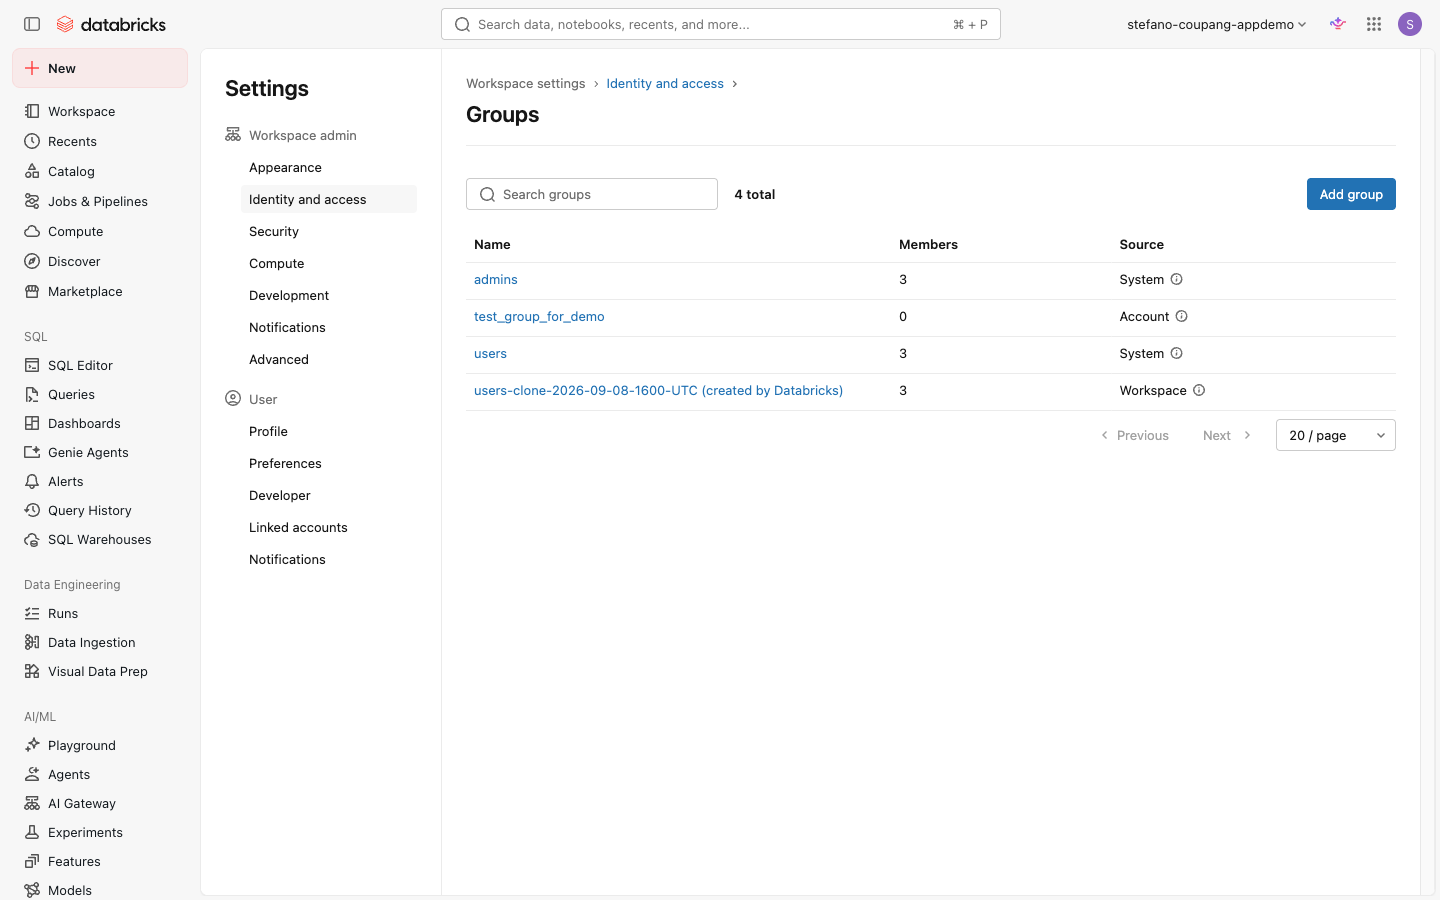
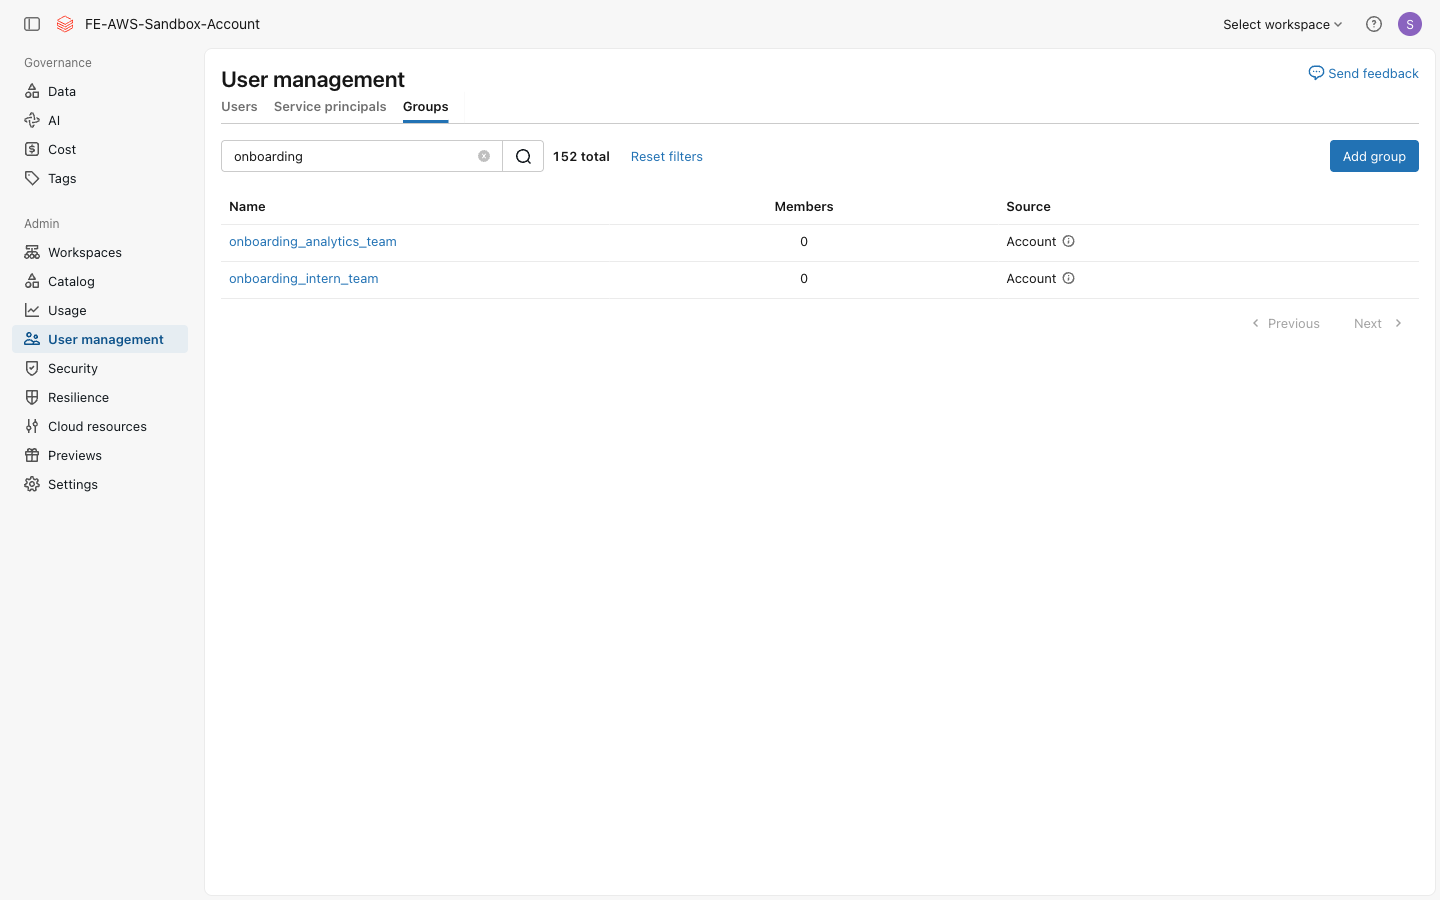
04. 그룹 관리: 1단계 스크린샷을 워크스페이스 콘솔 → 계정 콘솔로 교체
- 기존 01-account-console-groups-tab.png 이 실제로는 워크스페이스 콘솔
  (Workspace settings > Identity and access > Groups) 화면이라, 계정 콘솔에서
  그룹을 만들라는 1단계 내용과 모순되었음 (사용자 제보)
- 계정 콘솔(accounts.cloud.databricks.com)의 User management > Groups 탭을
  새로 캡처해 교체. 공개 레포 PII 노출을 피하려 이 실습이 만드는
  onboarding_analytics_team·onboarding_intern_team 만 보이도록 필터
- 캡션도 계정 콘솔/필터 맥락 및 워크스페이스 콘솔과의 구분점으로 갱신

diff --git a/docs/04-groups.md b/docs/04-groups.md
@@ -88,8 +88,8 @@
 2. 왼쪽 사이드바에서 **User Management** 아이콘(사람 모양)을 클릭합니다.
 3. 화면 상단의 탭 중 **Groups** 를 클릭합니다.
 
-   ![계정 콘솔 Groups 탭](../assets/screenshots/04-groups/01-account-console-groups-tab.png)
-   *그룹 목록 화면 — admins·users 등 계정에 정의된 그룹과 각 그룹의 멤버 수·소스(System/Account), 우측 상단 "Add group" 버튼.*
+   ![계정 콘솔 User management > Groups 탭](../assets/screenshots/04-groups/01-account-console-groups-tab.png)
+   *계정 콘솔(`accounts.cloud.databricks.com`)의 **User management → Groups** 탭 — 계정 레벨 그룹 목록입니다. (여기서는 이 실습에서 만드는 `onboarding_analytics_team`·`onboarding_intern_team`만 보이도록 검색창에 "onboarding"으로 필터했습니다.) 각 그룹의 멤버 수와 소스(Account), 우측 상단 "Add group" 버튼을 확인하세요. 좌측 내비게이션이 Governance·Admin(Workspaces·User management 등)으로 구성된 점이 워크스페이스 콘솔이 아닌 **계정 콘솔**임을 보여줍니다.*
 
 4. 오른쪽 상단의 **Add Group** 버튼을 클릭합니다.
 5. **Group name** 입력란에 `onboarding_analytics_team` 을 입력합니다.
